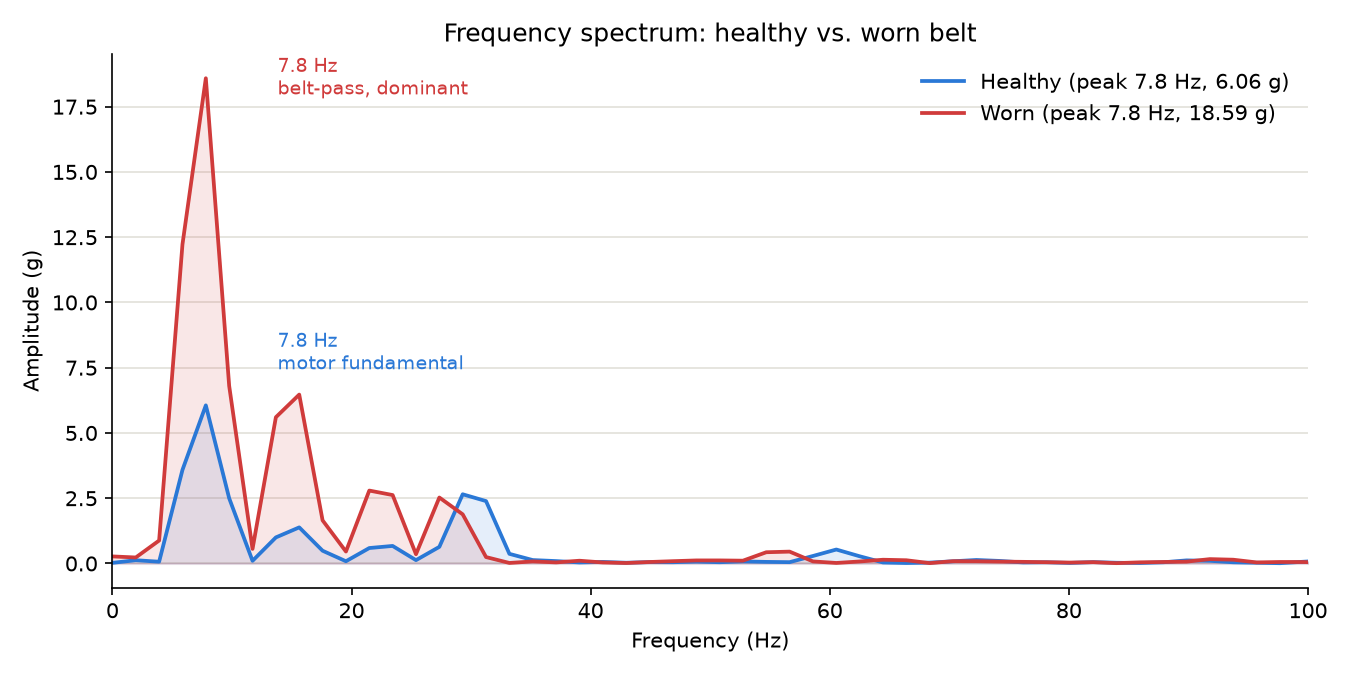
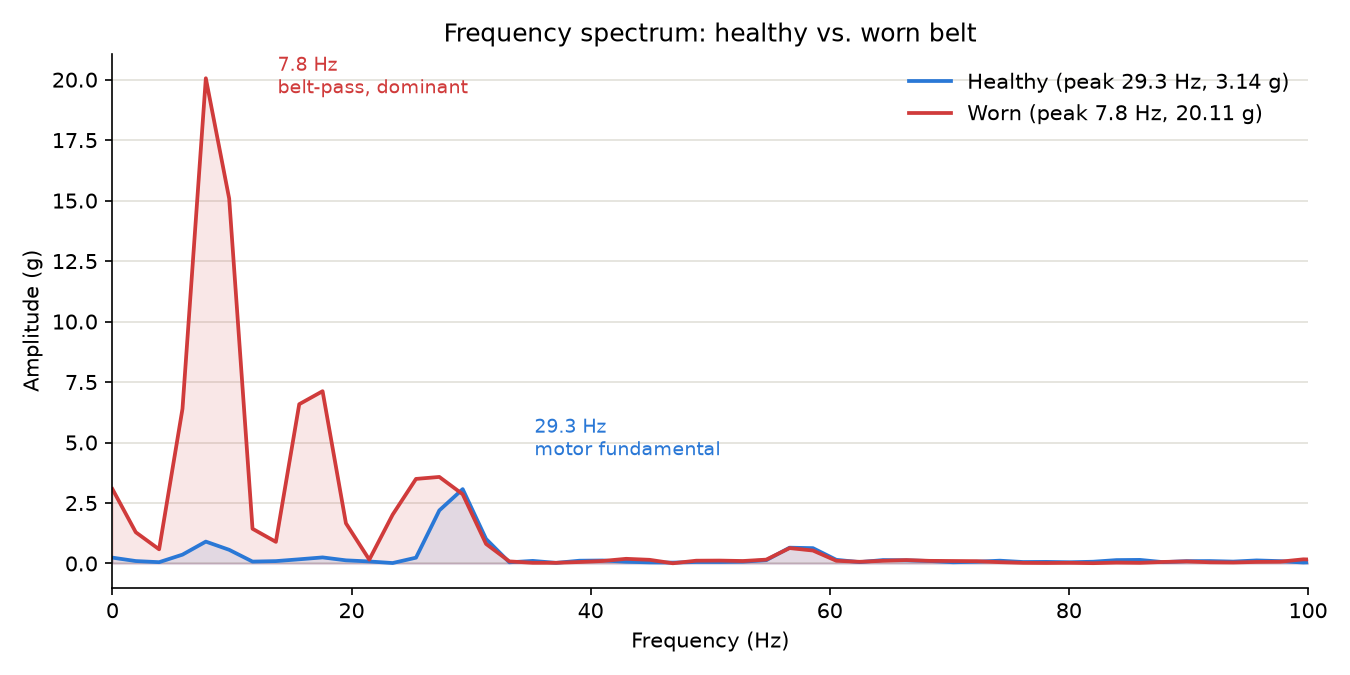
regenerated figures

diff --git a/README.md b/README.md
@@ -131,8 +131,8 @@ just the one pair of examples I happened to pick for the plots above:
 
 | Metric | Healthy (n=350) | Worn (n=350) | Mann-Whitney U |
 |---|---|---|---|
-| Peak frequency (Hz) | 28.04 ± 4.35 | 9.01 ± 4.57 | U=116793, p=1.93×10⁻¹¹⁰ |
-| Peak amplitude (g) | 3.88 ± 1.13 | 22.17 ± 7.93 | U=6149, p=2.88×10⁻⁹⁴ |
+| Peak frequency (Hz) | 28.49 ± 4.59 | 8.74 ± 3.98 | U=117736, p=2.10×10⁻¹¹³ |
+| Peak amplitude (g) | 2.19 ± 0.62 | 18.97 ± 6.15 | U=1482, p=1.43×10⁻¹¹⁰ |
 
 I had to look up "Mann-Whitney U" myself: it's a statistical test for
 whether two groups of numbers are actually different or just randomly
@@ -173,13 +173,13 @@ tables, not just printed to the console.
 
 | | Predicted healthy | Predicted worn |
 |---|---|---|
-| **True healthy** | 101 | 5 |
-| **True worn** | 27 | 323 |
+| **True healthy** | 100 | 6 |
+| **True worn** | 17 | 333 |
 
-93.0% accuracy on the 456 held-out captures: 98.5% precision, meaning
-when it says worn it's almost always right, and 92.3% recall, meaning it
+95.0% accuracy on the 456 held-out captures: 98.2% precision, meaning
+when it says worn it's almost always right, and 95.1% recall, meaning it
 catches most but not all of the actually-worn captures. It throws a
-handful of false alarms on healthy captures, and misses about 8% of worn
+handful of false alarms on healthy captures, and misses about 5% of worn
 ones, mostly early-stage wear that hadn't pushed the belt-pass amplitude
 far enough above baseline yet. That's a reasonable failure mode for
 something this simple, and I want to be upfront about it: this is one

diff --git a/analysis/figures/classification_report.md b/analysis/figures/classification_report.md
@@ -1,10 +1,10 @@
-Ground truth: device `esp32-dev-test`, healthy range(s) [1787958507, 1787965489], worn range(s) [1788131307, 1788138289] (operator-recorded capture sessions).
+Ground truth: device `esp32-dev-test`, healthy range(s) [1788328030, 1788348971], worn range(s) [1788371231, 1788392172] (operator-recorded capture sessions).
 
-Threshold: `belt_band_amplitude` > 9.573 (baseline 2.608 + 3×2.322 std)
+Threshold: `belt_band_amplitude` > 5.916 (baseline 1.658 + 3×1.419 std)
 
 | | Predicted healthy | Predicted worn |
 |---|---|---|
-| **True healthy** | 101 | 5 |
-| **True worn** | 27 | 323 |
+| **True healthy** | 100 | 6 |
+| **True worn** | 17 | 333 |
 
-Accuracy: 93.0% · Precision: 98.5% · Recall: 92.3% (n=456)
+Accuracy: 95.0% · Precision: 98.2% · Recall: 95.1% (n=456)

diff --git a/analysis/figures/summary_table.md b/analysis/figures/summary_table.md
@@ -1,4 +1,4 @@
 | Metric | Healthy (n=350) | Worn (n=350) | Mann-Whitney U |
 |---|---|---|---|
-| Peak frequency (Hz) | 28.04 ± 4.35 | 9.01 ± 4.57 | U=116793, p=1.93e-110 |
-| Peak amplitude (g) | 3.88 ± 1.13 | 22.17 ± 7.93 | U=6149, p=2.88e-94 |
+| Peak frequency (Hz) | 28.49 ± 4.59 | 8.74 ± 3.98 | U=117736, p=2.10e-113 |
+| Peak amplitude (g) | 2.19 ± 0.62 | 18.97 ± 6.15 | U=1482, p=1.43e-110 |
